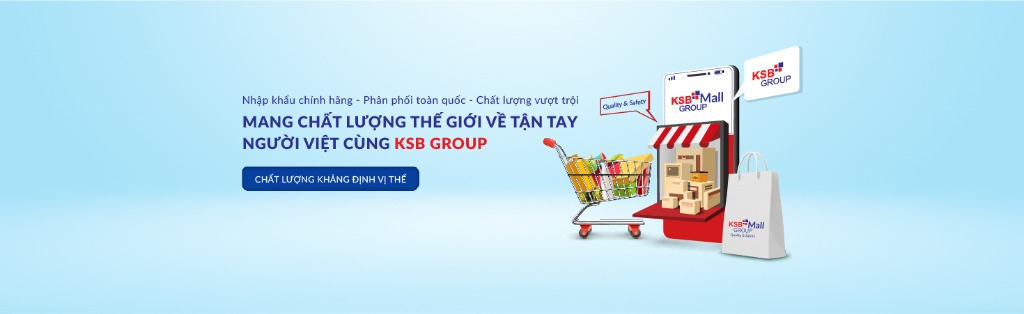
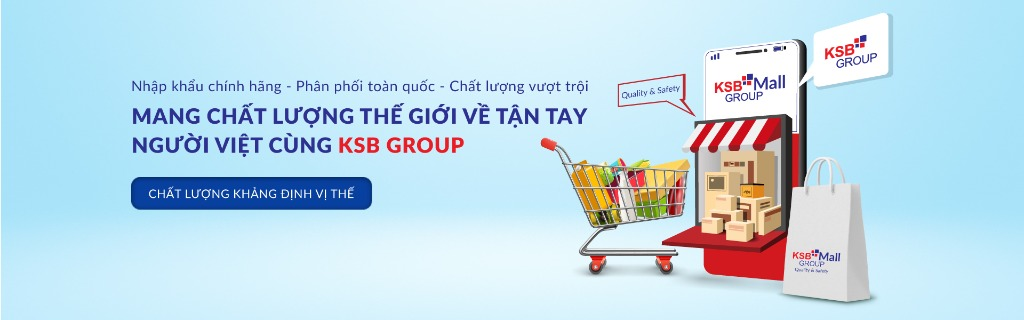
update code

Changed region(s): [[0.125, 0.0287, 0.875, 0.9745], [0.4688, 0.8885, 0.5625, 0.9459]]

diff --git a/src/components/HeaderV2.tsx b/src/components/HeaderV2.tsx
@@ -85,12 +85,12 @@ export default function HeaderV2() {
                     <Link href="/v2/products" className="flex-shrink-0">
                         <div className="flex items-center pl-4">
                             <Image
-                                src="/images/logo.png"
-                                alt="KSB Group"
-                                width={140}
-                                height={45}
+                                src="/images/logo-v2.png"
+                                alt="KSB Mall Group"
+                                width={120}
+                                height={60}
                                 priority
-                                className="h-10 md:h-12 w-auto"
+                                className="h-12 md:h-16 w-auto"
                             />
                         </div>
                     </Link>
@@ -209,11 +209,11 @@ export default function HeaderV2() {
                         {/* Mobile Menu Header */}
                         <div className="flex items-center justify-between p-4 border-b bg-[#bb252d]">
                             <Image
-                                src="/images/logo.png"
-                                alt="KSB Group"
-                                width={100}
-                                height={32}
-                                className="h-8 w-auto brightness-0 invert"
+                                src="/images/logo-v2.png"
+                                alt="KSB Mall Group"
+                                width={90}
+                                height={45}
+                                className="h-10 w-auto brightness-0 invert"
                             />
                             <button
                                 onClick={() => setIsMenuOpen(false)}

diff --git a/src/app/v2/products/ProductsV2Client.tsx b/src/app/v2/products/ProductsV2Client.tsx
@@ -301,7 +301,7 @@ export default function ProductsV2Client({
             <section className="w-full overflow-hidden bg-[#e6f4fe]">
                 <Image
                     src="/images/products-v2-banner.jpg"
-                    alt="KSB Group Banner"
+                    alt="KSB Mall Group Banner"
                     width={1920}
                     height={600}
                     priority
